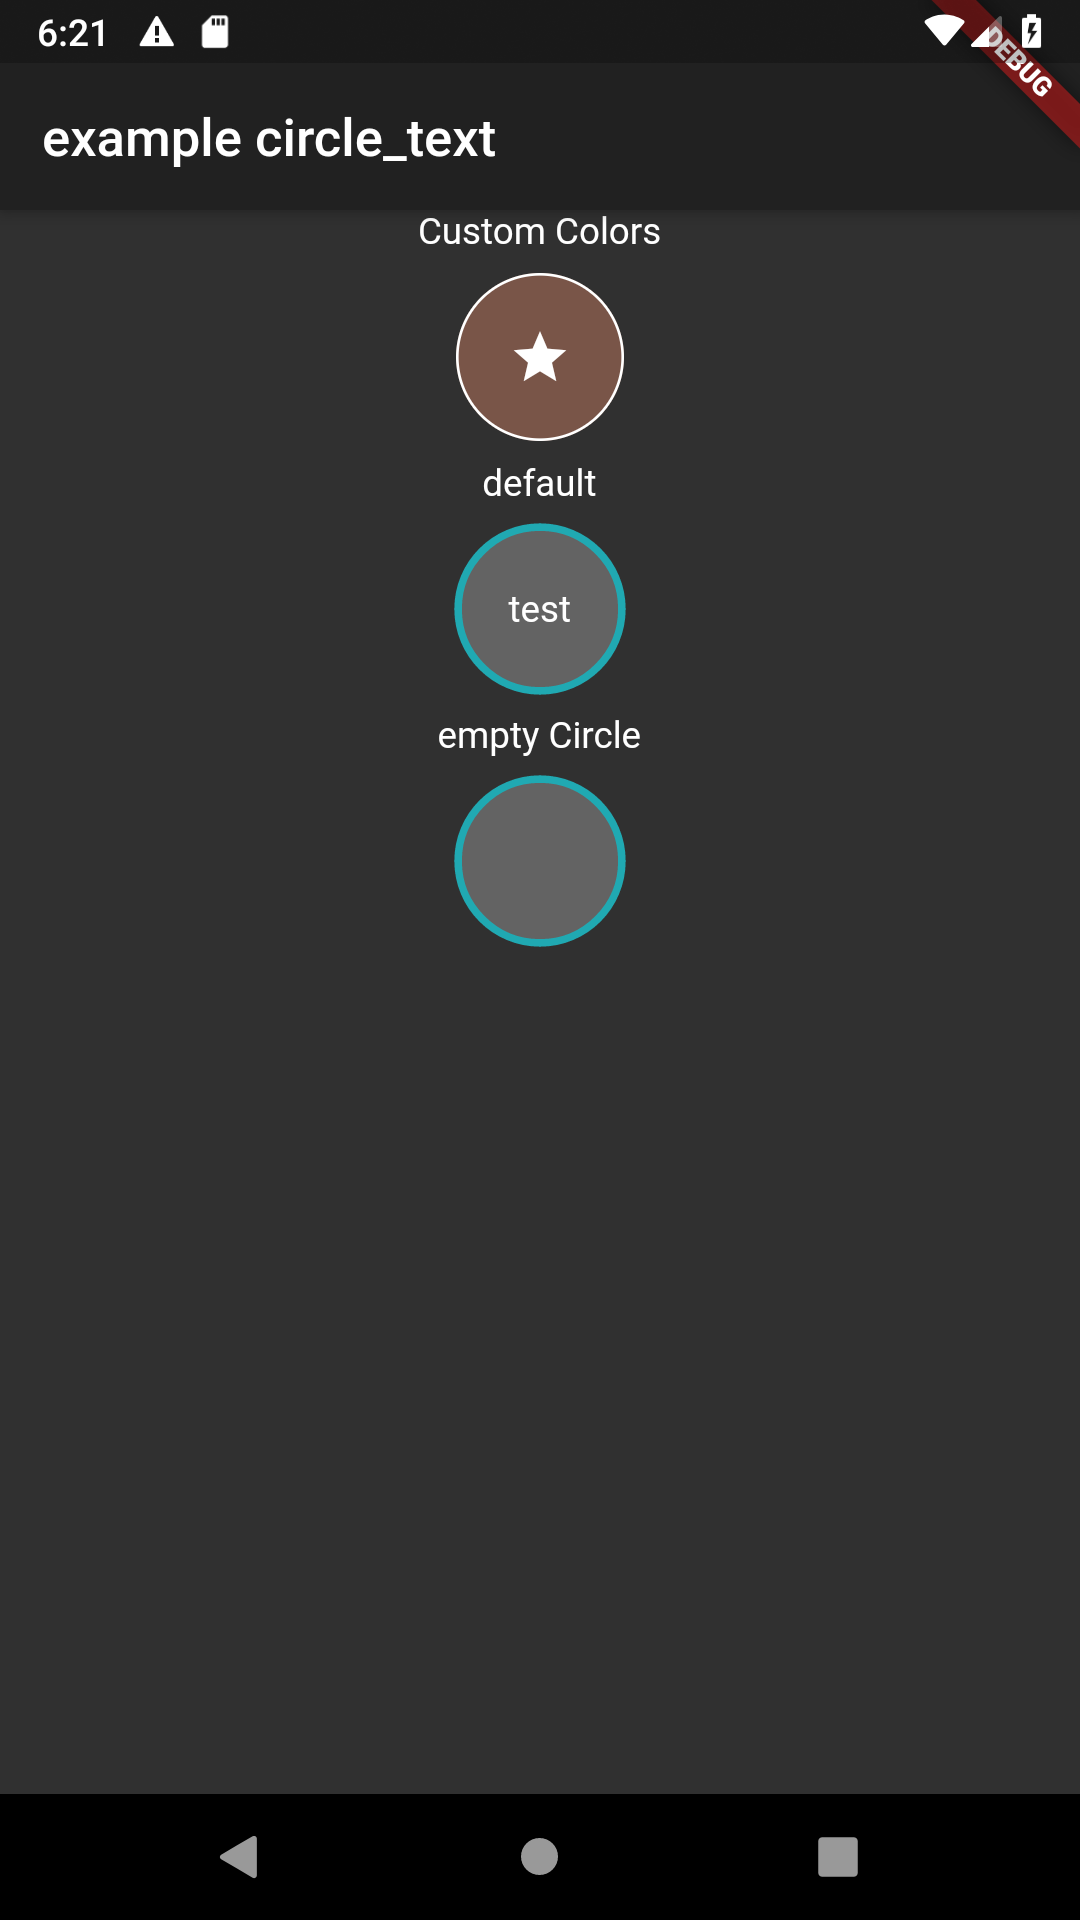
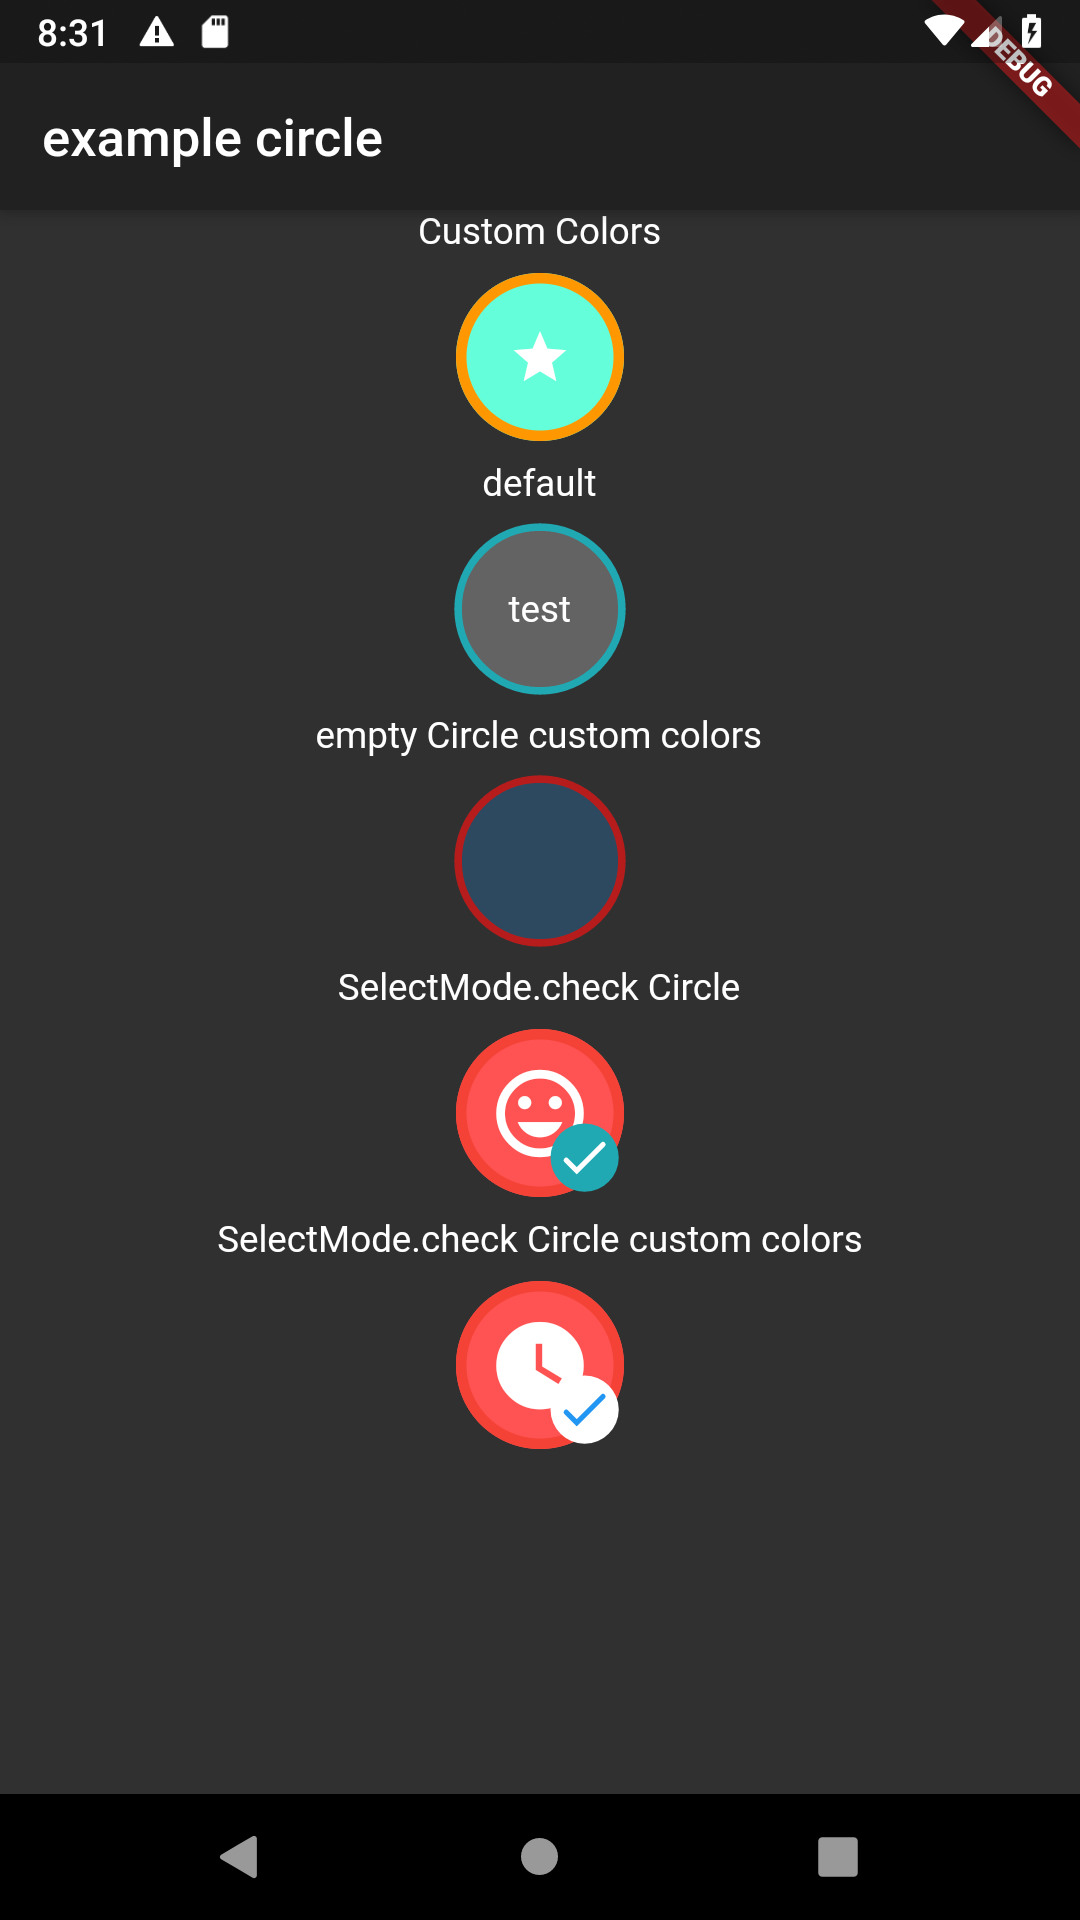
added Selectmode Check selected colors now also work in animations onSelected API changed to onTap

diff --git a/lib/selectable_circle.dart b/lib/selectable_circle.dart
@@ -1,14 +1,21 @@
 library selectable_circle;
 
+import 'package:flare_dart/math/mat2d.dart';
+import 'package:flare_flutter/flare.dart';
+import 'package:flare_flutter/flare_controller.dart';
 import 'package:flutter/material.dart';
 import 'package:flare_flutter/flare_actor.dart';
 
-/// A Calculator.
+/// Displays a Circle with a border wich can be selected.
+///
+/// [onTap] event is called, when the user taps on the circle
+/// For [SelectMode.check] the [borderColor] is the check path
+/// and the [selectedColor] is the color of the small animated circle
 class SelectableCircle extends StatelessWidget {
   SelectableCircle({
     Key key,
     @required this.width,
-    this.onSelected,
+    this.onTap,
     Widget child,
     bool isSelected,
     this.color,
@@ -19,13 +26,15 @@ class SelectableCircle extends StatelessWidget {
   })  : isSelected = isSelected ?? false,
         selectMode = selectMode ?? SelectMode.animatedCircle,
         child = child ?? Container(),
+        _controller =
+            MyFlareController(borderColor, selectedColor, selectedBorderColor),
         super(key: key);
 
   /// the width and height of the CircleWidget
   final double width;
 
   /// is called when the circle is tapped
-  final VoidCallback onSelected;
+  final VoidCallback onTap;
 
   /// child displayed on top of the circle
   final Widget child;
@@ -48,10 +57,18 @@ class SelectableCircle extends StatelessWidget {
   /// changes the selectmode
   ///
   /// Possible Values:
-  /// simple: no animation, only SelectedColor is used
-  /// animatedCircle: Animation is used
+  /// simple: no animation, only selectedColors are used
+  /// animatedCircle: Animation is used (default)
   /// check: Check Icon Animation is used
   final SelectMode selectMode;
+
+  final FlareController _controller;
+
+  static const checkAsset = "asdf";
+  static const spinningAsset = "asdf";
+  static const spinningAnimation = "Spinning Circle";
+  static const idleAnimation = "idle";
+  static const checkAnimation = "Check";
 
   @override
   Widget build(BuildContext context) {
@@ -61,19 +78,19 @@ class SelectableCircle extends StatelessWidget {
     final bc = isSelected && selectMode != SelectMode.check
         ? selectedBorderColor ?? Theme.of(context).buttonColor
         : borderColor ?? Theme.of(context).textTheme.body1.color;
-    final borderWidth = isSelected ? 4.0 : 1.0;
+    final borderWidth = isSelected ? 4.0 : 1.5;
 
     return GestureDetector(
       child: Stack(
         children: [
           if (selectMode == SelectMode.animatedCircle)
             isSelected
-                ? _buildSpinningAnimation("Spinning Circle")
+                ? _buildSpinningAnimation(spinningAnimation)
                 // i draw a smaller idle Animation below the not selected Circle
                 // for smoother click feeling, because
                 // flare flashes when it is built with animation,
                 // maybe there is a better solution, or the flare file needs to be updated
-                : _buildSpinningAnimation("idle"),
+                : _buildSpinningAnimation(idleAnimation),
           if (selectMode != SelectMode.animatedCircle || !isSelected)
             _buildCircle(c, bc, borderWidth),
           Container(
@@ -88,8 +105,8 @@ class SelectableCircle extends StatelessWidget {
               child: Align(
                 alignment: Alignment(0.85, 0.85),
                 child: isSelected
-                    ? _buildSpinningAnimation("Check", fixedWidth: 40.0)
-                    : _buildSpinningAnimation("idle", fixedWidth: 0.0),
+                    ? _buildSpinningAnimation(checkAnimation, fixedWidth: 40.0)
+                    : _buildSpinningAnimation(idleAnimation, fixedWidth: 0.0),
               ),
             ),
         ],
@@ -115,25 +132,25 @@ class SelectableCircle extends StatelessWidget {
   }
 
   _select() {
-    if (onSelected != null) {
-      onSelected();
+    if (onTap != null) {
+      onTap();
     }
   }
 
   Widget _buildSpinningAnimation(String animation, {double fixedWidth}) {
     final edgeinsets = (animation == 'idle') ? 10.0 : 4.0;
-    final asset = fixedWidth != null
-        ? "packages/selectable_circle/flare/check.flr"
-        : "packages/selectable_circle/flare/spinning.flr";
-
     return Container(
       padding: EdgeInsets.all(edgeinsets),
       width: fixedWidth ?? width,
       height: fixedWidth ?? width,
       child: Center(
-        child: FlareActor(asset,
+        child: FlareActor(
+            fixedWidth != null
+                ? "packages/selectable_circle/flare/check.flr"
+                : "packages/selectable_circle/flare/spinning.flr",
             alignment: Alignment.center,
             fit: BoxFit.fitHeight,
+            controller: _controller,
             animation: animation),
       ),
     );
@@ -141,3 +158,62 @@ class SelectableCircle extends StatelessWidget {
 }
 
 enum SelectMode { simple, animatedCircle, check }
+
+class MyFlareController with FlareController {
+  MyFlareController(
+      this.borderColor, this.selectedColor, this.selectedBorderColor);
+
+  final Color borderColor;
+  final Color selectedColor;
+  final Color selectedBorderColor;
+  FlutterColorFill _fillSelected;
+  FlutterColorStroke _strokeSelectedBorder;
+  FlutterColorStroke _strokeBorder;
+
+  static const checkShape = "Check";
+  static const spinnerShape = "Loading Spinner";
+  static const ellipseShape = "Green Ellipse";
+  static const whiteCircleShape = "White Circle";
+  static const clippingCircleShape = "Clipping Circle";
+
+  void initialize(FlutterActorArtboard artboard) {
+    if (selectedColor != null) {
+      FlutterActorShape shape = artboard.getNode(ellipseShape);
+      _fillSelected = shape?.fill as FlutterColorFill;
+      if (_fillSelected == null) {
+        shape = artboard.getNode(clippingCircleShape);
+        _fillSelected = shape?.fill as FlutterColorFill;
+      }
+    }
+    if (selectedBorderColor != null) {
+      FlutterActorShape shape = artboard.getNode(checkShape);
+      _strokeSelectedBorder = shape?.stroke as FlutterColorStroke;
+      if (_strokeSelectedBorder == null) {
+        shape = artboard.getNode(spinnerShape);
+        _strokeSelectedBorder = shape?.stroke as FlutterColorStroke;
+      }
+    }
+    if (borderColor != null) {
+      FlutterActorShape shape = artboard.getNode(whiteCircleShape);
+      _strokeBorder = shape?.stroke as FlutterColorStroke;
+    }
+  }
+
+  void setViewTransform(Mat2D viewTransform) {}
+
+  bool advance(FlutterActorArtboard artboard, double elapsed) {
+    // advance is called whenever the flare artboard is about to update (before it draws).
+    if (_fillSelected != null) {
+      _fillSelected.uiColor = selectedColor;
+    }
+    if (_strokeSelectedBorder != null) {
+      _strokeSelectedBorder.uiColor = selectedBorderColor;
+    }
+    if (_strokeBorder != null) {
+      _strokeBorder.uiColor = borderColor;
+    }
+
+    // Return false as we don't need to be called again. You'd return true if you wanted to manually animate some property.
+    return false;
+  }
+}

diff --git a/example/lib/main.dart b/example/lib/main.dart
@@ -29,6 +29,7 @@ class _MyHomeState extends State<MyHome> {
   bool _isSelected2 = false;
   bool _isSelected3 = false;
   bool _isSelected4 = false;
+  bool _isSelected5 = false;
   @override
   Widget build(BuildContext context) {
     return Scaffold(
@@ -46,7 +47,7 @@ class _MyHomeState extends State<MyHome> {
               selectedBorderColor: Colors.orange,
               selectedColor: Colors.tealAccent,
               selectMode: SelectMode.simple,
-              onSelected: () {
+              onTap: () {
                 setState(() {
                   _isSelected2 = !_isSelected2;
                 });
@@ -59,7 +60,7 @@ class _MyHomeState extends State<MyHome> {
             child: SelectableCircle(
               width: 80.0,
               isSelected: _isSelected,
-              onSelected: () {
+              onTap: () {
                 setState(() {
                   _isSelected = !_isSelected;
                 });
@@ -67,19 +68,22 @@ class _MyHomeState extends State<MyHome> {
               child: Text("test"),
             ),
           ),
-          Center(child: Text("empty Circle")),
+          Center(child: Text("empty Circle custom colors")),
           Center(
             child: SelectableCircle(
               isSelected: _isSelected3,
+              borderColor: Colors.greenAccent,
+              selectedColor: Colors.blue,
+              selectedBorderColor: Colors.red[900],
               width: 80.0,
-              onSelected: () {
+              onTap: () {
                 setState(() {
                   _isSelected3 = !_isSelected3;
                 });
               },
             ),
           ),
-          Center(child: Text("empty Circle")),
+          Center(child: Text("SelectMode.check Circle")),
           Center(
             child: SelectableCircle(
               color: Colors.redAccent,
@@ -91,9 +95,30 @@ class _MyHomeState extends State<MyHome> {
                 Icons.tag_faces,
                 size: 40.0,
               ),
-              onSelected: () {
+              onTap: () {
                 setState(() {
                   _isSelected4 = !_isSelected4;
+                });
+              },
+            ),
+          ),
+          Center(child: Text("SelectMode.check Circle custom colors")),
+          Center(
+            child: SelectableCircle(
+              color: Colors.redAccent,
+              borderColor: Colors.red,
+              isSelected: _isSelected5,
+              selectMode: SelectMode.check,
+              selectedColor: Colors.white,
+              selectedBorderColor: Colors.blue,
+              width: 80.0,
+              child: Icon(
+                Icons.watch_later,
+                size: 40.0,
+              ),
+              onTap: () {
+                setState(() {
+                  _isSelected5 = !_isSelected5;
                 });
               },
             ),

diff --git a/README.md b/README.md
@@ -41,11 +41,15 @@ A Flutter package for an Circle that can be Selected with animation.
     final Color borderColor;
 
     /// Color of the circle when selected
-    ///
-    /// this option also disables the animation!
     final Color selectedColor;
 
     /// Color of the border when selected
-    ///
-    /// this option also disables the animation!
     final Color selectedBorderColor;
+
+    /// changes the selectmode
+    ///
+    /// Possible Values:
+    /// simple: no animation, only selectedColor is used
+    /// animatedCircle: Animation is used (default)
+    /// check: Check Icon Animation is used
+    final SelectMode selectMode;
